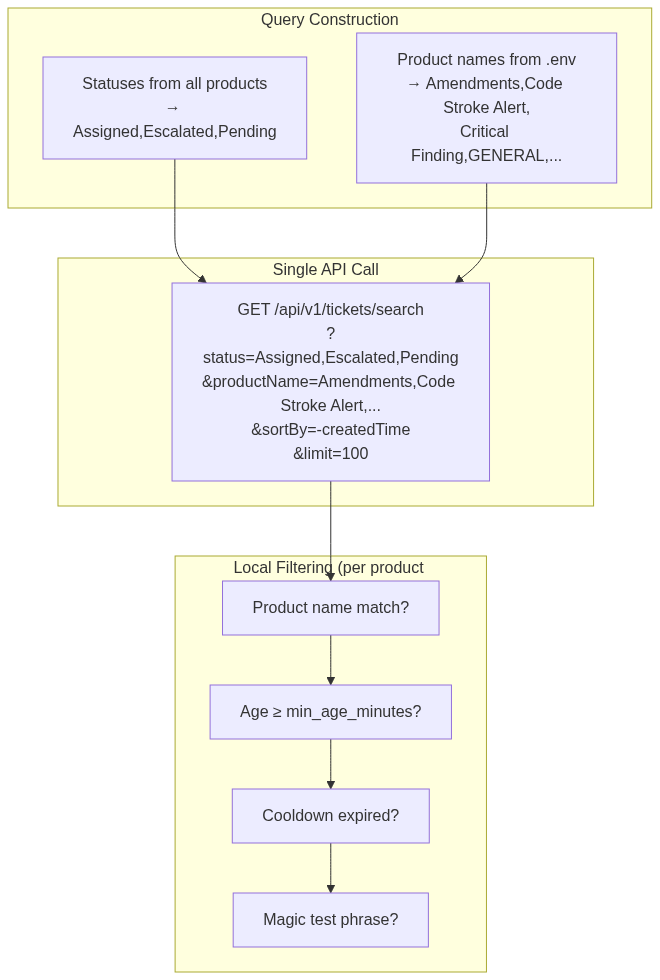
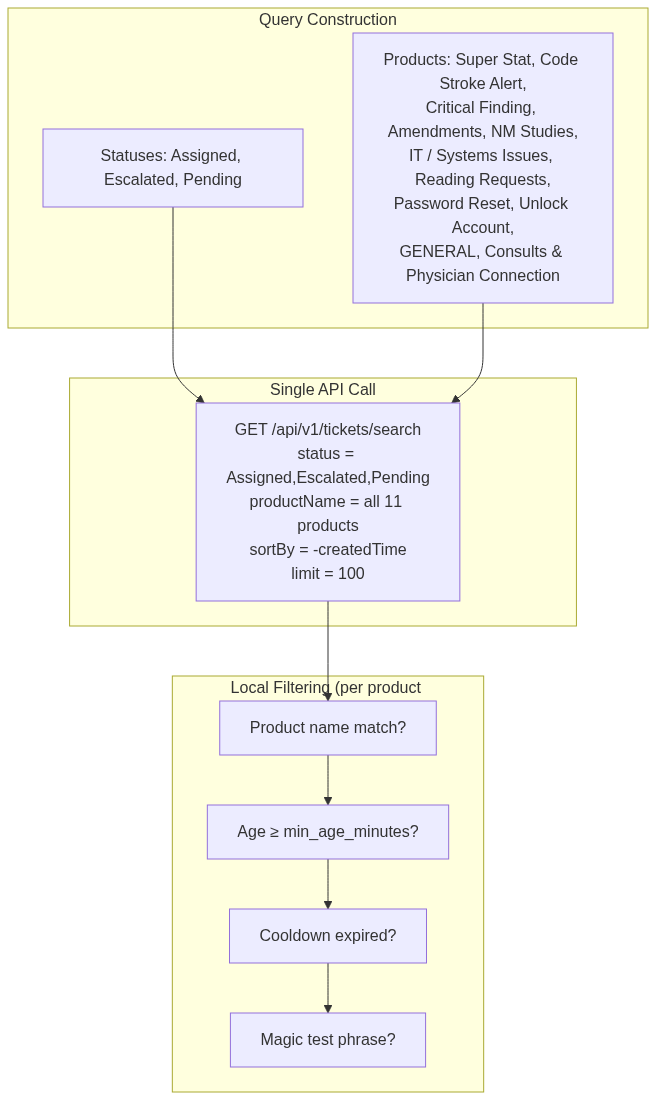
improve architecture and search query diagrams for clarity
- Simplify architecture to left-to-right flow, less clutter
- List all 11 product names explicitly in search query diagram
- Clean up API call box to avoid mid-word wrapping

diff --git a/README.md b/README.md
@@ -7,38 +7,32 @@ Fully registry-driven: products are configured in `src/scripts/product_registry.
 ## Architecture
 
 ```mermaid
-flowchart TB
-    subgraph EC2["EC2 Server"]
-        direction TB
-        subgraph docker_net["Docker Network (zoho-token-service_default)"]
-            direction LR
-            TS["Token Service<br>(FastAPI)<br>Port 8000<br>Auto-refreshes every ~58 min"]
-            NS["Notification Service<br>(Python 3.12)<br>main.py"]
-        end
+flowchart LR
+    subgraph Config["Configuration"]
+        ENV[".env file"]
+        REG["product_registry.py"]
+    end
+
+    subgraph EC2["EC2 Server — Docker Network"]
+        TS["Token Service<br>FastAPI :8000<br>auto-refresh ~58 min"]
+        NS["Notification Service<br>Python 3.12 main.py<br>polls every 30 sec"]
     end
 
     subgraph Zoho["Zoho Cloud"]
-        ZA["Zoho Accounts<br>OAuth Token Endpoint"]
-        ZD["Zoho Desk API<br>/api/v1/tickets/search"]
+        ZA["Zoho Accounts<br>OAuth endpoint"]
+        ZD["Zoho Desk API<br>tickets/search"]
     end
 
     subgraph Teams["Microsoft Teams"]
-        WH1["Product Webhooks<br>(11 channels)"]
-        WH2["Pending Summary<br>Webhook"]
+        WH["11 Product Webhooks<br>+ 1 Pending Webhook"]
     end
 
-    subgraph Config["Configuration"]
-        ENV[".env file<br>Zoho credentials<br>Product names<br>Webhook URLs<br>Timing controls"]
-        REG["product_registry.py<br>11 product definitions"]
-    end
-
-    TS -- "refresh_token grant" --> ZA
-    NS -- "GET /token" --> TS
-    NS -- "GET /tickets/search<br>?productName=...&status=..." --> ZD
-    NS -- "POST Adaptive Card" --> WH1
-    NS -- "POST Pending Summary" --> WH2
     ENV -. "loads" .-> NS
-    REG -. "builds ProductConfig" .-> NS
+    REG -. "builds config" .-> NS
+    TS -- "refresh_token" --> ZA
+    NS -- "GET /token" --> TS
+    NS -- "search by product + status" --> ZD
+    NS -- "POST Adaptive Cards" --> WH
 ```
 
 ## Polling Cycle (every 30 seconds)
@@ -58,12 +52,12 @@ flowchart LR
 ```mermaid
 flowchart TB
     subgraph build["Query Construction"]
-        S["Statuses from all products<br>→ Assigned,Escalated,Pending"]
-        P["Product names from .env<br>→ Amendments,Code Stroke Alert,<br>Critical Finding,GENERAL,..."]
+        S["Statuses: Assigned, Escalated, Pending"]
+        P["Products: Super Stat, Code Stroke Alert,<br>Critical Finding, Amendments, NM Studies,<br>IT / Systems Issues, Reading Requests,<br>Password Reset, Unlock Account,<br>GENERAL, Consults & Physician Connection"]
     end
 
     subgraph call["Single API Call"]
-        Q["GET /api/v1/tickets/search<br>?status=Assigned,Escalated,Pending<br>&productName=Amendments,Code Stroke Alert,...<br>&sortBy=-createdTime<br>&limit=100"]
+        Q["GET /api/v1/tickets/search<br>status = Assigned,Escalated,Pending<br>productName = all 11 products<br>sortBy = -createdTime<br>limit = 100"]
     end
 
     subgraph filter["Local Filtering (per product worker)"]
